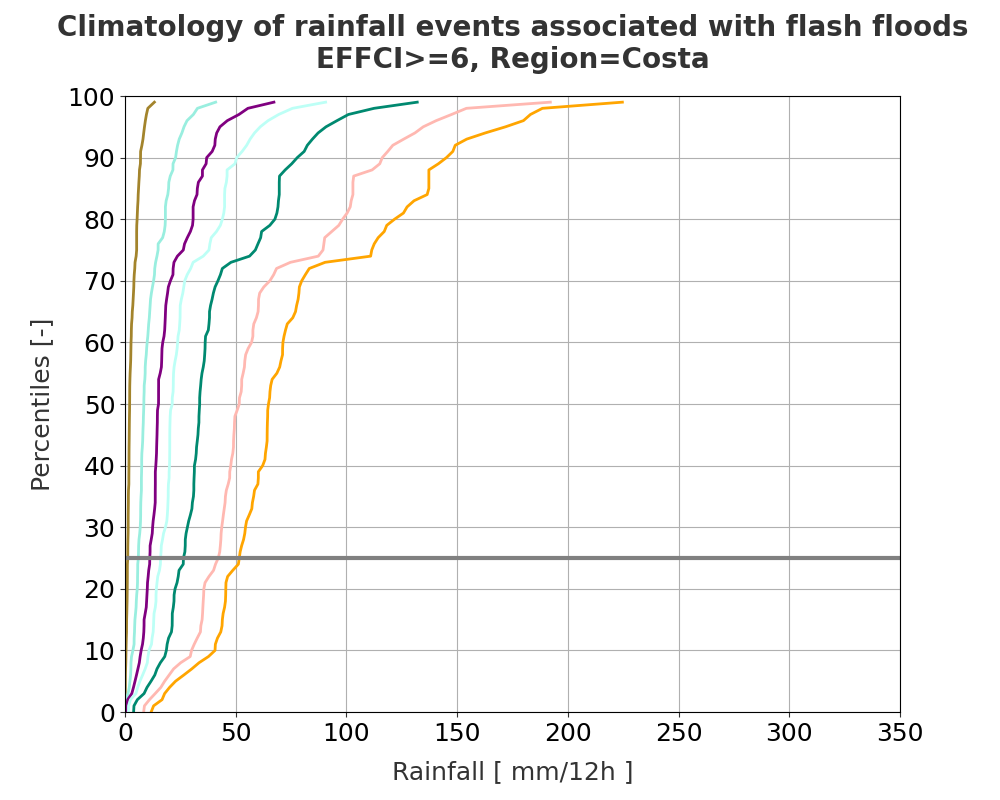
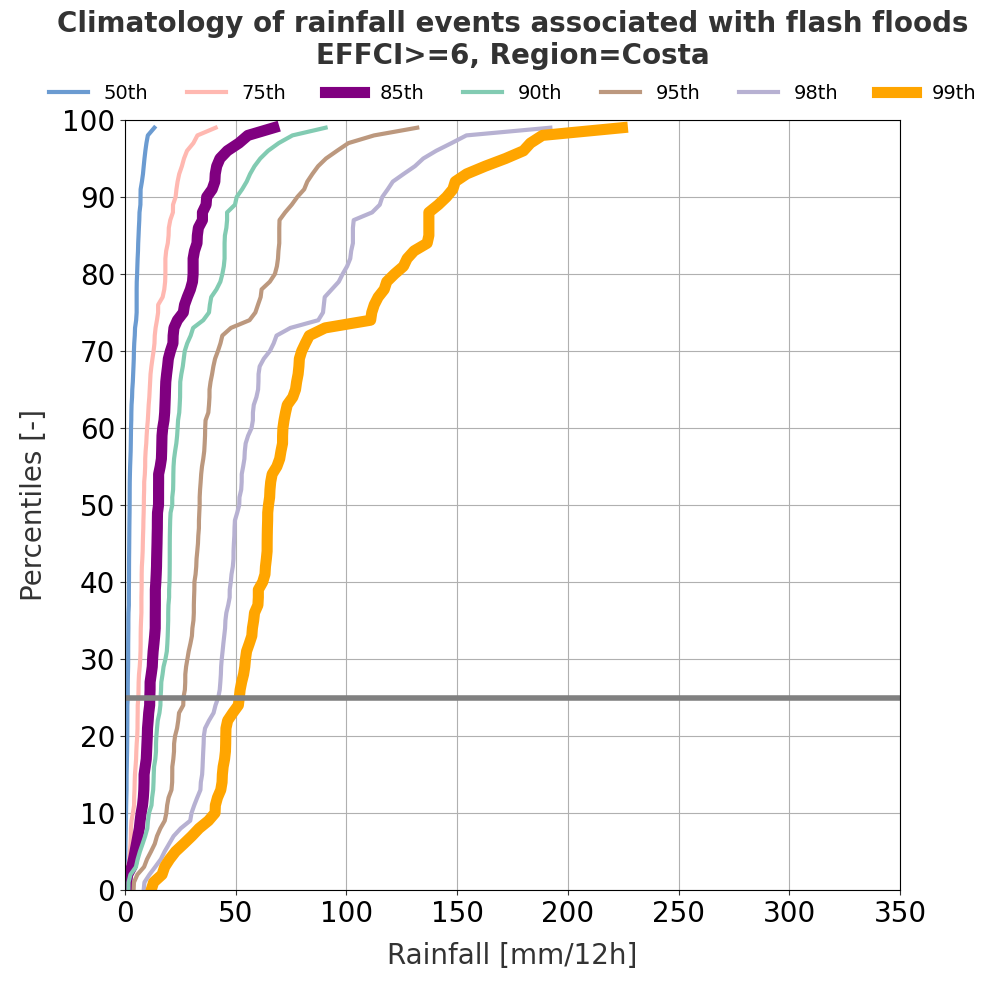
Improved readibility of plots showing the climatologies of rainfall events associated with flash flood events.

diff --git a/Scripts/Processed/10_Compute_Counts_FC_OBS_Exceeding_VRE.py b/Scripts/Processed/10_Compute_Counts_FC_OBS_Exceeding_VRE.py
@@ -1,21 +1,18 @@
 import os
-import sys
 from datetime import datetime, timedelta
-import calendar
 import numpy as np
 import pandas as pd
 import metview as mv 
 
 #################################################################################
 # CODE DESCRIPTION
-# 10_Compute_Counts_FC_OBS_Exceeding_VRE.py computes daily counts of ensemble members 
-# and observations exceeding a considered VRE. 
+# 10_Compute_Counts_FC_OBS_Exceeding_VRT.py computes daily counts of ensemble members 
+# and observations exceeding a considered VRT. 
 # Note: the code can take up 4 days to run in serial. It is recommended to run separate months in 
 # parallel to take down the runtime to 8 hours. 
 
 # INPUT PARAMETERS DESCRIPTION
 # Year (integer, in format YYYY): year to consider in the processing.
-# Month (integer, in format MM): month to consider in the processing.
 # StepF_Start (integer, in hours): first final step of the accumulation periods to consider.
 # StepF_Final (integer, in hours): last final step of the accumulation periods to consider.
 # Disc_Step (integer, in hours): discretization for the final steps to consider.
@@ -23,7 +20,7 @@ import metview as mv
 # EFFCI_list (list of integers, from 1 to 10): list of EFFCI indexes to consider.
 # MagnitudeInPerc_Rain_Event_FR_list (list of integers, from 0 to 100): list of magnitudes, in 
 #     percentiles, of rainfall events that can potentially conduct to flash floods.
-# Perc_VRE (integer, from 0 to 100): percentile that defines the verifying rainfall event to consider.
+# Perc_VRT (integer, from 0 to 100): percentile that defines the verifying rainfall event to consider.
 # RegionCode_list (list of integers): list of codes for the domain's regions. 
 # RegionName_list (list of strings): list of names for the domain's regions.
 # SystemFC_list (list of strings): list of names of forecasting systems to consider.
@@ -36,35 +33,33 @@ import metview as mv
 # DirOUT (string): relative path of the directory containing the daily probabilistic contingency tables.
 
 # INPUT PARAMETERS
-Year = int(sys.argv[1])
-Month = int(sys.argv[2])
+Year = 2020
 StepF_Start = 12
 StepF_Final = 246
 Disc_Step = 6
 Acc = 12
 EFFCI_list = [1,6,10]
 MagnitudeInPerc_Rain_Event_FR_list = [85, 99]
-Perc_VRE = 25
+Perc_VRT = 25
 RegionCode_list = [1,2];
 RegionName_list = ["Costa","Sierra"];
-SystemFC_list = ["ENS", "ecPoint"]
+SystemFC_list = ["ecPoint"]
 Git_repo = "/ec/vol/ecpoint_dev/mofp/Papers_2_Write/Verif_Flash_Floods_Ecuador"
 FileIN_Mask = "Data/Raw/Ecuador_Mask_ENS/Mask.grib"
 DirIN_Climate_Rain_FR = "Data/Compute/07_Climate_Rain_FR"
 DirIN_FC = "Data/Raw/FC"
 DirIN_GridFR = "Data/Compute/03_GridFR_EFFCI_AccPer"
-DirOUT = "Data/Compute/10_Counts_FC_OBS_Exceeding_VRE"
+DirOUT = "Data/Compute/10_Counts_FC_OBS_Exceeding_VRT"
 ################################################################################
 
 # Sorting the range of dates to process
-_, last_day_month = calendar.monthrange(Year, Month)
-DateS = datetime(Year, Month, 1)
-DateF = datetime(Year, Month, last_day_month)
+DateS = datetime(Year, 1, 1)
+DateF = datetime(Year, 12,31)
 
 # Reading the file containing the mask for the considered domain
 mask = mv.values(mv.read(Git_repo + "/" + FileIN_Mask))
 
-# Creating the daily counts of forecasts and observations exceeding a VRE
+# Creating the daily counts of forecasts and observations exceeding a VRT
 for SystemFC in SystemFC_list:
 
       # Creating the daily probabilistic contingency tables for a specific lead time
@@ -127,7 +122,7 @@ for SystemFC in SystemFC_list:
 
                                     # Selecting the grid-boxes in the observational fields belonging to the considered region
                                     GridFR_region = GridFR[ind_mask_region]
-                                    count_obs_exceed_vre = np.sum(GridFR_region > 0)
+                                    count_obs_exceed_VRT = np.sum(GridFR_region > 0)
                                     
                                     # Reading the climatology of rainfall events associated with flash floods
                                     File_Rain_Climate_FR = Git_repo + "/" + DirIN_Climate_Rain_FR + "/" + f"{Acc:02d}" + "h/EFFCI" + f"{EFFCI:02d}" + "/Climate_Rain_FR_" + f"{Acc:02d}" + "h_EFFCI" + f"{EFFCI:02d}" + "_" + RegionName + ".csv"
@@ -136,21 +131,21 @@ for SystemFC in SystemFC_list:
                                     # Creating the daily probabilistic contingency tables for a specific magnitude of rainfall events associated with flash floods
                                     for MagnitudeInPerc_Rain_Event_FR in MagnitudeInPerc_Rain_Event_FR_list:
                               
-                                          print("     - Computing ct for VRE>=tp(" + str(MagnitudeInPerc_Rain_Event_FR) + "th perc)" + "," + RegionName + ", EFFCI>=" + str(EFFCI))
+                                          print("     - Computing ct for VRT>=tp(" + str(MagnitudeInPerc_Rain_Event_FR) + "th perc)" + "," + RegionName + ", EFFCI>=" + str(EFFCI))
 
-                                          # Selecting the considered verifying rainfall event (VRE)
-                                          vre = climate_rain_FR["RainEvent_Magnitude_" + str(MagnitudeInPerc_Rain_Event_FR) + "th_Percentile"][Perc_VRE]
+                                          # Selecting the considered verifying rainfall event (VRT)
+                                          VRT = climate_rain_FR["RainEvent_Magnitude_" + str(MagnitudeInPerc_Rain_Event_FR) + "th_Percentile"][Perc_VRT]
 
-                                          # Computing the counts of forecasts and observations exceeding the considered VRE
-                                          count_fc_exceed_vre = np.sum(tp_region >= vre)
-                                          count_fc_obs_exceed_vre = np.hstack([count_fc_exceed_vre,count_obs_exceed_vre])
+                                          # Computing the counts of forecasts and observations exceeding the considered VRT
+                                          count_fc_exceed_VRT = np.sum(tp_region >= VRT)
+                                          count_fc_obs_exceed_VRT = np.hstack([count_fc_exceed_VRT,count_obs_exceed_VRT])
                                           
                                           # Saving the counts
-                                          DirOUT_temp= Git_repo + "/" + DirOUT + "/" + f"{Acc:02d}" + "h/EFFCI" + f"{EFFCI:02d}" + "/VRE" + f"{MagnitudeInPerc_Rain_Event_FR:02d}" + "/" + f"{StepF:03d}" + "/" + SystemFC + "/" + RegionName
-                                          FileNameOUT_temp = "Count_FC_OBS_" + f"{Acc:02d}" + "h_EFFCI" + f"{EFFCI:02d}" + "_VRE" + f"{MagnitudeInPerc_Rain_Event_FR:02d}" + "_" + SystemFC + "_" + RegionName + "_" + TheDate.strftime("%Y%m%d") + "_" + TheDate.strftime("%H") + "_" + f"{StepF:03d}"
+                                          DirOUT_temp= Git_repo + "/" + DirOUT + "/" + f"{Acc:02d}" + "h/EFFCI" + f"{EFFCI:02d}" + "/VRT" + f"{MagnitudeInPerc_Rain_Event_FR:02d}" + "/" + f"{StepF:03d}" + "/" + SystemFC + "/" + RegionName
+                                          FileNameOUT_temp = "Count_FC_OBS_" + f"{Acc:02d}" + "h_EFFCI" + f"{EFFCI:02d}" + "_VRT" + f"{MagnitudeInPerc_Rain_Event_FR:02d}" + "_" + SystemFC + "_" + RegionName + "_" + TheDate.strftime("%Y%m%d") + "_" + TheDate.strftime("%H") + "_" + f"{StepF:03d}"
                                           if not os.path.exists(DirOUT_temp):
                                                 os.makedirs(DirOUT_temp)
-                                          np.save(DirOUT_temp + "/" + FileNameOUT_temp, count_fc_obs_exceed_vre)
+                                          np.save(DirOUT_temp + "/" + FileNameOUT_temp, count_fc_obs_exceed_VRT)
 
                   else:
 

diff --git a/Scripts/Processed/08_Plot_Climate_Rain_FR.py b/Scripts/Processed/08_Plot_Climate_Rain_FR.py
@@ -22,10 +22,10 @@ import matplotlib.pyplot as plt
 # INPUT PARAMETERS
 Acc = 12
 EFFCI_list = [1,6,10]
-Max_Rain_Plot = 350
-Max_Rain_Plot_Disc = 50
+Max_Rain_Plot = 100
+Max_Rain_Plot_Disc = 20
 MagnitudeInPerc_Rain_Event_FR_list = [50, 75, 85, 90, 95, 98, 99]
-MagnitudeInPerc_Rain_Event_FR_colours_list = ["#a3842c", "#99eedf", "purple", "#bdfff6", "#008970", "#ffb8b1", "orange"]
+MagnitudeInPerc_Rain_Event_FR_colours_list = ["#6b9bd1", "#ffb8b1", "purple", "#82cbb2", "#bc987e", "#b7b1d2", "orange"]
 RegionName_list = ["Costa","Sierra"]
 Git_repo="/ec/vol/ecpoint_dev/mofp/Papers_2_Write/Verif_Flash_Floods_Ecuador"
 DirIN = "Data/Compute/07_Climate_Rain_FR"
@@ -46,7 +46,7 @@ for EFFCI in EFFCI_list:
             climate_rain_FR_all = pd.read_csv(DirIN_temp + "/" + FileNameIN_temp)
             
             # Setting the figure for the plots 
-            fig, ax = plt.subplots(figsize=(10, 8))
+            fig, ax = plt.subplots(figsize=(10, 10))
 
             # Selecting a specific magnitude, in percentile, of rainfall events that can potentially conduct to flash floods.
             for ind_magnitude in range(len(MagnitudeInPerc_Rain_Event_FR_list)):
@@ -59,19 +59,24 @@ for EFFCI in EFFCI_list:
                   percentiles = climate_rain_FR_all["Climate_Percentiles"]
                   
                   # Plotting the rainfall climatology
-                  ax.plot(climate_rain_FR, percentiles, color=MagnitudeInPerc_Rain_Event_FR_colours, linewidth=2)
+                  if MagnitudeInPerc_Rain_Event_FR == 85 or MagnitudeInPerc_Rain_Event_FR == 99:
+                        LineWidth = 8
+                  else:
+                        LineWidth = 3
+                  ax.plot(climate_rain_FR, percentiles, color=MagnitudeInPerc_Rain_Event_FR_colours, linewidth=LineWidth, label=str(MagnitudeInPerc_Rain_Event_FR) + "th")
             
             # Setting the plot metadata - Normal plot
-            ax.plot([0,Max_Rain_Plot], [25, 25], "-", color="grey", linewidth=3)
-            ax.set_title("Climatology of rainfall events associated with flash floods\n" + r"EFFCI>=" + str(EFFCI) + ", Region=" + RegionName, fontsize=20, pad=20, weight="bold", color="#333333")
-            ax.set_xlabel("Rainfall [ mm/" + str(Acc) + "h ]", fontsize=18, labelpad=10, color="#333333")
-            ax.set_ylabel("Percentiles [-]", fontsize=18, labelpad=10, color="#333333")
+            ax.plot([0,Max_Rain_Plot], [25, 25], "-", color="grey", linewidth=4)
+            ax.set_title("Climatology of rainfall events associated with flash floods\n" + r"EFFCI>=" + str(EFFCI) + ", Region=" + RegionName, fontsize=20, pad=40, weight="bold", color="#333333")
+            ax.set_xlabel("Rainfall [mm/" + str(Acc) + "h]", fontsize=20, labelpad=10, color="#333333")
+            ax.set_ylabel("Percentiles [-]", fontsize=20, labelpad=10, color="#333333")
             ax.set_xlim([0,Max_Rain_Plot])
             ax.set_ylim([0,100])
             ax.set_xticks(range(0, Max_Rain_Plot + 1, Max_Rain_Plot_Disc))
             ax.set_yticks(range(0,101, 10))
-            ax.xaxis.set_tick_params(labelsize=18, color="#333333")
-            ax.yaxis.set_tick_params(labelsize=18, color="#333333")
+            ax.xaxis.set_tick_params(labelsize=20, color="#333333")
+            ax.yaxis.set_tick_params(labelsize=20, color="#333333")
+            ax.legend(loc="upper center",  bbox_to_anchor=(0.5, 1.07), ncol=7, fontsize=14, frameon=False)
             ax.grid()
 
             # Saving the plot
